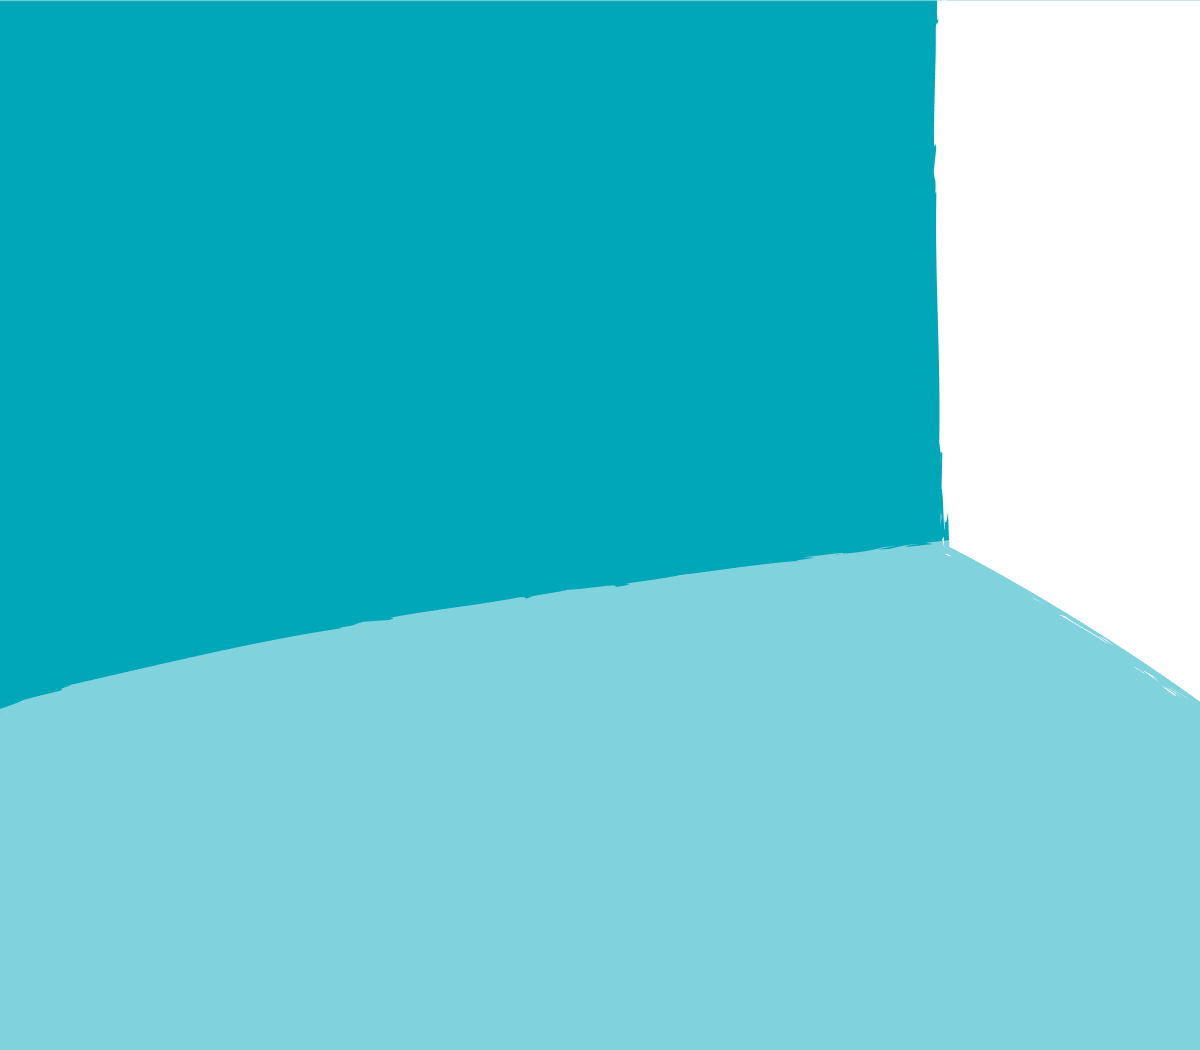
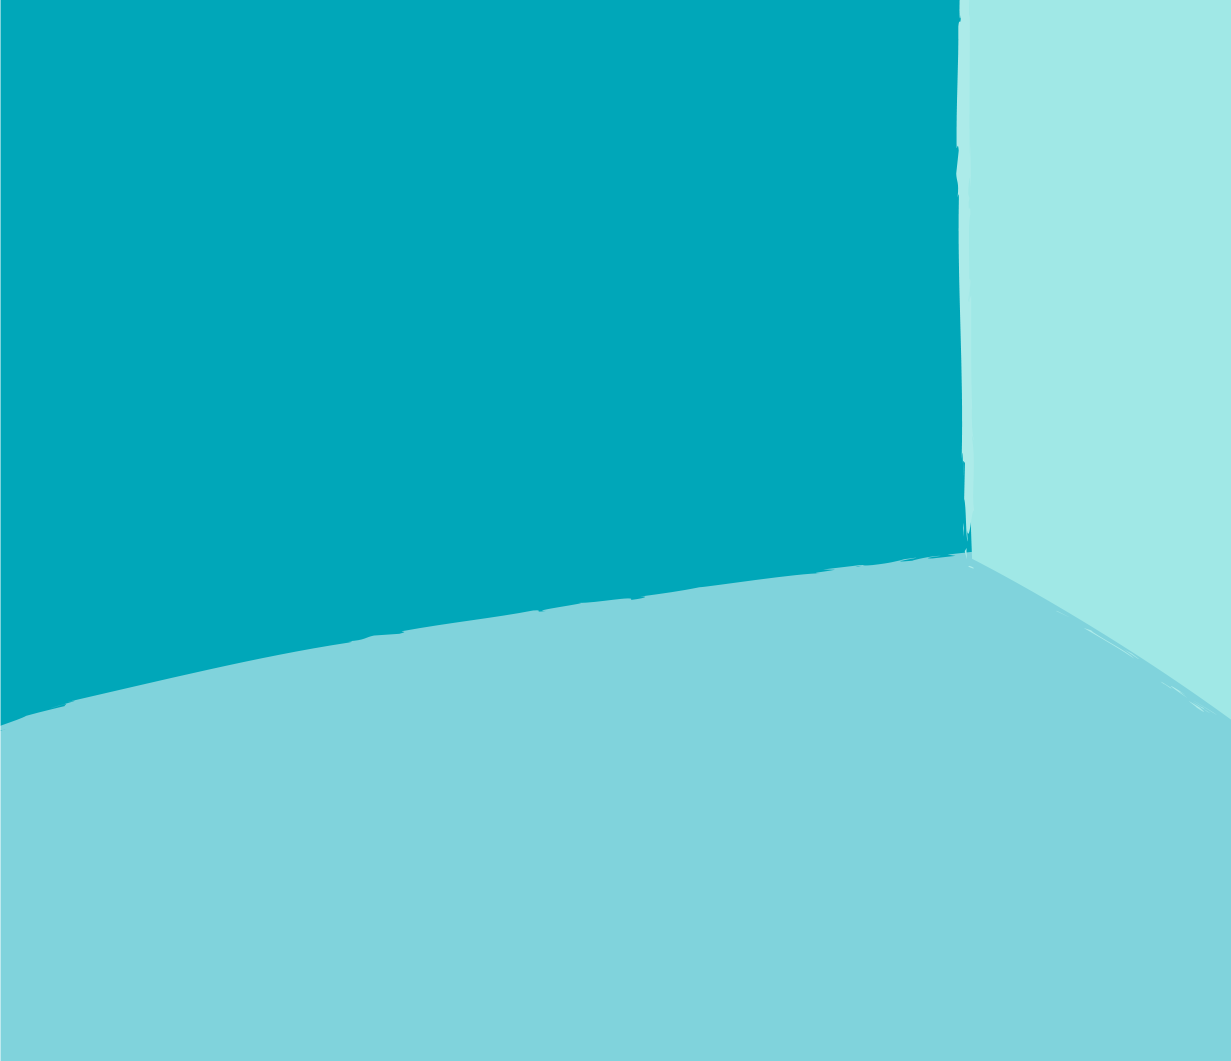
change background of illustration. update Q6 spider net. update content background color.

diff --git a/index.html b/index.html
@@ -38,8 +38,217 @@
           <div class="line">里長，應該是連結我們與政府的重要媒介，但我們總是只聞其聲不見其人，甚至里長的職務內容都不清楚。</div>
           <div class="line">你心中的里長輪廓是什麼樣子呢？新聞 e 論壇分析了台灣里長的相關資料，透過回答下面７大問題，一步一步描繪出台灣里長的大致樣貌。</div>
         </div>
+        <div id="bnr-more"></div>
       </div>
       <div id="menu"><a ng-click="skolto('Q1-Q')" ng-class="{'active':ans['Q1']}" class="item"></a><a ng-click="skolto('Q1-Q')" ng-class="{'active':ans['Q1']}" class="item"></a><a ng-click="skolto('Q2-Q')" ng-class="{'active':ans['Q2']}" class="item"></a><a ng-click="skolto('Q3-Q')" ng-class="{'active':ans['Q3']}" class="item"></a><a ng-click="skolto('Q4-Q')" ng-class="{'active':ans['Q4']}" class="item"></a><a ng-click="skolto('Q5-Q')" ng-class="{'active':ans['Q5']}" class="item"></a><a ng-click="skolto('Q6-Q')" ng-class="{'active':ans['Q6']}" class="item"></a><a ng-click="skolto('Q7-Q')" ng-class="{'active':ans['Q7']}" class="item"></a><a href="https://www.facebook.com/NewseForum?fref=ts" target="_blank" class="item active"></a></div>
+      <div id="puzzle"><img src="img/chief/BK.png" class="bk">
+        <div class="ib"><img src="img/chief/Q1.png" ng-class="{'active':ans['Q1']}"><img src="img/chief/Q2.png" ng-class="{'active':ans['Q2']}"><img src="img/chief/Q3.png" ng-class="{'active':ans['Q3']}"><img src="img/chief/Q4.png" ng-class="{'active':ans['Q4']}"><img src="img/chief/Q5.png" ng-class="{'active':ans['Q5']}"><img src="img/chief/Q6.png" ng-class="{'active':ans['Q6']}"><img src="img/chief/Q7.png" ng-class="{'active':ans['Q7']}"><img src="img/chief/Q8.png" ng-class="{'active':ans['Q8']}">
+        </div>
+      </div>
+      <div id="content">&nbsp;
+        <div ng-controller="section" id="Q1" class="section">
+          <p class="detail">{{randomFact}}</p><br>
+          <p>{{randomFact}}</p>
+          <div id="Q1-Q"></div>
+          <div class="question sm"><img src="img/question-sm.png">
+            <div class="desc">台灣里長性別比 (男：女) ？
+            </div>
+          </div>
+          <div class="choices">
+            <div ng-class="{'chosen': chosen==1,'fill': ans['Q2']}" ng-click="choice(1,'Q2',true)" class="choice c1 answer"><img src="img/choice/empty.png">
+              <div class="desc">6 : 1
+              </div>
+            </div>
+            <div ng-class="{'chosen': chosen==2,'fill': ans['Q2']}" ng-click="choice(2,'Q2',false)" class="choice c2"><img src="img/choice/empty.png">
+              <div class="desc">4 : 1
+              </div>
+            </div>
+            <div ng-class="{'chosen': chosen==3,'fill': ans['Q2']}" ng-click="choice(3,'Q2',false)" class="choice c3"><img src="img/choice/empty.png">
+              <div class="desc">2 : 1
+              </div>
+            </div>
+            <div ng-class="{'chosen': chosen==4,'fill': ans['Q2']}" ng-click="choice(4,'Q2',false)" class="choice c4"><img src="img/choice/empty.png">
+              <div class="desc">1 : 1
+              </div>
+            </div>
+          </div>
+        </div>
+        <div ng-controller="section" id="Q2" class="section">
+          <p class="detail">{{randomFact}}</p><br>
+          <p>{{randomFact}}</p>
+          <div id="Q2-Q"></div>
+          <div class="question md"><img src="img/question-md.png">
+            <div class="desc">大家口中的「里長伯」、「里長姨」的平均年齡究竟是?
+            </div>
+          </div>
+          <div class="choices">
+            <div ng-class="{'chosen': chosen==1,'fill': ans['Q3']}" ng-click="choice(1,'Q3',false)" class="choice c1"><img src="img/choice/empty.png">
+              <div class="desc">35-44 <br>歲
+              </div>
+            </div>
+            <div ng-class="{'chosen': chosen==2,'fill': ans['Q3']}" ng-click="choice(2,'Q3',false)" class="choice c2"><img src="img/choice/empty.png">
+              <div class="desc">45-54<br>歲
+              </div>
+            </div>
+            <div ng-class="{'chosen': chosen==3,'fill': ans['Q3']}" ng-click="choice(3,'Q3',true)" class="choice c3 answer"><img src="img/choice/empty.png">
+              <div class="desc">55-64<br>歲
+              </div>
+            </div>
+            <div ng-class="{'chosen': chosen==4,'fill': ans['Q3']}" ng-click="choice(4,'Q3',false)" class="choice c4"><img src="img/choice/empty.png">
+              <div class="desc">65-74<br>歲
+              </div>
+            </div>
+          </div>
+        </div>
+        <div ng-controller="section" id="Q3" class="section">
+          <p class="detail">{{randomFact}}</p><br>
+          <p>{{randomFact}}</p>
+          <div id="Q3-Q"></div>
+          <div class="question md"><img src="img/question-md.png">
+            <div class="desc">里長該不會也被黨工滲透了？猜猜哪個黨的里長較多?
+            </div>
+          </div>
+          <div class="choices">
+            <div ng-class="{'chosen': chosen==1,'fill': ans['Q4']}" ng-click="choice(1,'Q4',false)" class="choice c1"><img src="img/choice/empty.png">
+              <div class="desc">國民黨
+              </div>
+            </div>
+            <div ng-class="{'chosen': chosen==2,'fill': ans['Q4']}" ng-click="choice(2,'Q4',false)" class="choice c2"><img src="img/choice/empty.png">
+              <div class="desc">民進黨
+              </div>
+            </div>
+            <div ng-class="{'chosen': chosen==3,'fill': ans['Q4']}" ng-click="choice(3,'Q4',false)" class="choice c3"><img src="img/choice/empty.png">
+              <div class="desc">親民黨
+              </div>
+            </div>
+            <div ng-class="{'chosen': chosen==4,'fill': ans['Q4']}" ng-click="choice(4,'Q4',true)" class="choice c4 answer"><img src="img/choice/empty.png">
+              <div class="desc">沒有黨
+              </div>
+            </div>
+          </div>
+        </div>
+        <div ng-controller="section" id="Q4" class="section">
+          <p class="detail">{{randomFact}}</p><br>
+          <p>{{randomFact}}</p>
+          <div id="Q4-Q"></div>
+          <div class="question lg"><img src="img/question-lg.png">
+            <div class="desc">身為一個里長，為民服務也是很正常的。里長該做的職責有哪些呢?
+            </div>
+          </div>
+          <div class="choices">
+            <div ng-class="{'chosen': chosen==1,'fill': ans['Q5']}" ng-click="choice(1,'Q5',false)" class="choice c1"><img src="img/choice/empty.png">
+              <div class="desc">廣播里政策
+              </div>
+            </div>
+            <div ng-class="{'chosen': chosen==2,'fill': ans['Q5']}" ng-click="choice(2,'Q5',false)" class="choice c2"><img src="img/choice/empty.png">
+              <div class="desc">幫里民喬事情
+              </div>
+            </div>
+            <div ng-class="{'chosen': chosen==3,'fill': ans['Q5']}" ng-click="choice(3,'Q5',false)" class="choice c3"><img src="img/choice/empty.png">
+              <div class="desc">主辦里團康活動
+              </div>
+            </div>
+            <div ng-class="{'chosen': chosen==4,'fill': ans['Q5']}" ng-click="choice(4,'Q5',true)" class="choice c4 answer"><img src="img/choice/empty.png">
+              <div class="desc">跟里民有關的一手包辦
+              </div>
+            </div>
+          </div>
+        </div>
+        <div ng-controller="section" id="Q5" class="section">
+          <p class="detail">{{randomFact}}</p><br>
+          <p>{{randomFact}}</p>
+          <div id="Q5-Q"></div>
+          <div class="question lg"><img src="img/question-lg.png">
+            <div class="desc">市長只能連任一次，指派的區長則是可連任二次，那猜猜看里長可以連任幾次?
+            </div>
+          </div>
+          <div class="choices">
+            <div ng-class="{'chosen': chosen==1,'fill': ans['Q6']}" ng-click="choice(1,'Q6',false)" class="choice c1"><img src="img/choice/empty.png">
+              <div class="desc">1次
+              </div>
+            </div>
+            <div ng-class="{'chosen': chosen==2,'fill': ans['Q6']}" ng-click="choice(2,'Q6',false)" class="choice c2"><img src="img/choice/empty.png">
+              <div class="desc">2次
+              </div>
+            </div>
+            <div ng-class="{'chosen': chosen==3,'fill': ans['Q6']}" ng-click="choice(3,'Q6',false)" class="choice c3"><img src="img/choice/empty.png">
+              <div class="desc">3次
+              </div>
+            </div>
+            <div ng-class="{'chosen': chosen==4,'fill': ans['Q6']}" ng-click="choice(4,'Q6',true)" class="choice c4 answer"><img src="img/choice/empty.png">
+              <div class="desc">無限次
+              </div>
+            </div>
+          </div>
+        </div>
+        <div ng-controller="section" id="Q6" class="section">
+          <p class="detail">{{randomFact}}</p><br>
+          <p>{{randomFact}}</p>
+          <div id="Q6-Q"></div>
+          <div class="question md"><img src="img/question-md.png">
+            <div class="desc">里長不拿薪水，那麼一個月可以拿多少補助呢?
+            </div>
+          </div>
+          <div class="choices">
+            <div ng-class="{'chosen': chosen==1,'fill': ans['Q7']}" ng-click="choice(1,'Q7',false)" class="choice c1"><img src="img/choice/empty.png">
+              <div class="desc">兩萬五
+              </div>
+            </div>
+            <div ng-class="{'chosen': chosen==2,'fill': ans['Q7']}" ng-click="choice(2,'Q7',true)" class="choice c2 answer"><img src="img/choice/empty.png">
+              <div class="desc">四萬五
+              </div>
+            </div>
+            <div ng-class="{'chosen': chosen==3,'fill': ans['Q7']}" ng-click="choice(3,'Q7',false)" class="choice c3"><img src="img/choice/empty.png">
+              <div class="desc">六萬五
+              </div>
+            </div>
+            <div ng-class="{'chosen': chosen==4,'fill': ans['Q7']}" ng-click="choice(4,'Q7',false)" class="choice c4"><img src="img/choice/empty.png">
+              <div class="desc">八萬五
+              </div>
+            </div>
+          </div>
+        </div>
+        <div ng-controller="section" id="Q7" class="section">
+          <p class="detail">{{randomFact}}</p><br>
+          <p>{{randomFact}}</p>
+          <div id="Q7-Q"></div>
+          <div class="question md"><img src="img/question-md.png">
+            <div class="desc">台灣這麼小，總鄰里數會是多少呢?
+            </div>
+          </div>
+          <div class="choices">
+            <div ng-class="{'chosen': chosen==1,'fill': ans['Q8']}" ng-click="choice(1,'Q8',false)" class="choice c1"><img src="img/choice/empty.png">
+              <div class="desc">
+                <div>4000 至</div>
+                <div>5000 個</div>
+              </div>
+            </div>
+            <div ng-class="{'chosen': chosen==2,'fill': ans['Q8']}" ng-click="choice(2,'Q8',true)" class="choice c2 answer"><img src="img/choice/empty.png">
+              <div class="desc">
+                <div>5000 至</div>
+                <div>6000 個</div>
+              </div>
+            </div>
+            <div ng-class="{'chosen': chosen==3,'fill': ans['Q8']}" ng-click="choice(3,'Q8',false)" class="choice c3"><img src="img/choice/empty.png">
+              <div class="desc">
+                <div>6000 至</div>
+                <div>7000 個</div>
+              </div>
+            </div>
+            <div ng-class="{'chosen': chosen==4,'fill': ans['Q8']}" ng-click="choice(4,'Q8',false)" class="choice c4"><img src="img/choice/empty.png">
+              <div class="desc">
+                <div>7000 至</div>
+                <div>8000 個</div>
+              </div>
+            </div>
+          </div>
+        </div>
+        <div ng-controller="section" id="Q8" class="section">
+          <p class="detail">{{randomFact}}</p><br>
+          <p>{{randomFact}}</p>
+          <div id="Q8-Q"></div>
+        </div>
+      </div>
     </div>
   </body>
 </html>

diff --git a/css/index.css b/css/index.css
@@ -3,13 +3,14 @@ html, body {
   padding: 0;
   width: 100%;
   height: 100%;
-  font-size: 20px;
-  color: #fff; }
+  font-size: 20px; }
 
 #content {
   width: 50%;
   margin-left: 50%;
-  background: #e6d471;
+  position: absolute;
+  top: 100%;
+  background: #ffc800;
   padding: 100px 0; }
 
 .question {
@@ -308,7 +309,8 @@ html, body {
   font-size: 0.65em;
   width: 60%;
   left: 20%;
-  text-align: center; }
+  text-align: center;
+  color: #fff; }
 
 @media (max-width: 1024px) {
   #bnr-intro {
@@ -320,9 +322,20 @@ html, body {
     display: inline; } }
 @media (max-width: 480px) {
   #bnr-intro {
-    bottom: 20px;
+    bottom: 30px;
     width: 90%;
     left: 5%; } }
+#bnr-more {
+  width: 41px;
+  height: 18px;
+  position: absolute;
+  bottom: 10px;
+  left: 50%;
+  margin-left: -20px;
+  background-image: url(../img/banner/more.png);
+  background-position: center center;
+  background-size: cover; }
+
 #bhs-container {
   position: absolute;
   top: 40%;

diff --git a/sass/banner/index.sass b/sass/banner/index.sass
@@ -56,6 +56,7 @@
   width: 60%
   left: 20%
   text-align: center
+  color: #fff
 @media (max-width: 1024px)
   #bnr-intro
     width: 80%
@@ -66,8 +67,18 @@
     display: inline
 @media (max-width: 480px)
   #bnr-intro
-    bottom: 20px
+    bottom: 30px
     width: 90%
     left: 5%
 
+#bnr-more
+  width: 41px
+  height: 18px
+  position: absolute
+  bottom: 10px
+  left: 50%
+  margin-left: -20px
+  background-image: url(../img/banner/more.png)
+  background-position: center center
+  background-size: cover
 @import house

diff --git a/sass/index.sass b/sass/index.sass
@@ -7,11 +7,12 @@ html,body
   width: 100%
   height: 100%
   font-size: 20px
-  color: #fff
 
 #content
   width: 50%
   margin-left: 50%
+  position: absolute
+  top: 100%
   background: $c-content
   padding: 100px 0
 

diff --git a/sass/vars.sass b/sass/vars.sass
@@ -1,3 +1,4 @@
-$c_content: #e6d471
+//$c_content: #e6d471
+$c_content: #ffc800
 $c_cyan: #00a7b9
 $order: puzzle, puzzlebk, puzzleblock, menu, banner, bhs-house, bhs-door, bhs-bike
